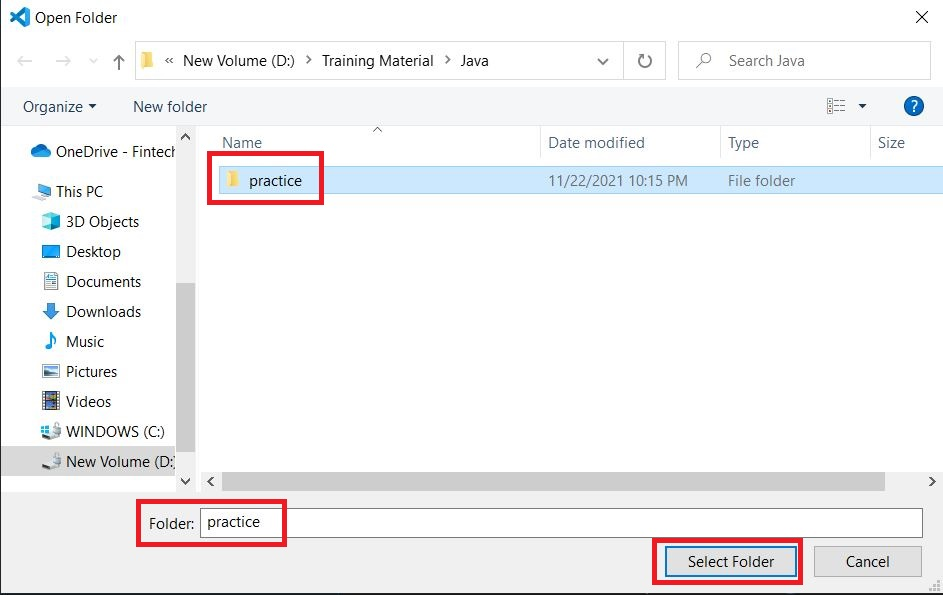
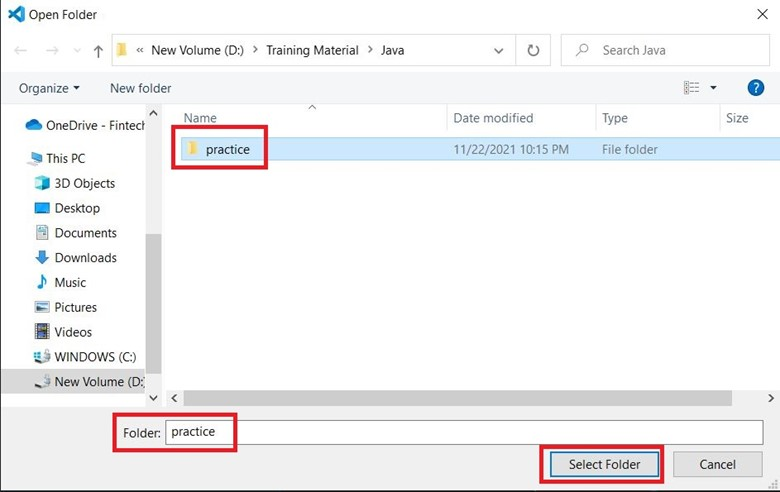
Δωρεαν Μαθηματα Java

diff --git a/java-unit2-java-maven-project-creation.html b/java-unit2-java-maven-project-creation.html
@@ -261,7 +261,7 @@
 							δίσκο. Στο δικό μου παράδειγμα έχω δημιουργήσει ένα folder με το όνομα 
 							practice. Μέσα σε αυτό το folder θα δημιουργήσουμε το πρώτο μας Java Project.</p>
 
-					<img src="java-unit2/java-unit2-1.jpg" alt="Δωρεάν Μαθήματα και Σεμινάρια JAVA" class="center">
+					<img src="java-unit2/java-unit2-1.png" alt="Δωρεάν Μαθήματα και Σεμινάρια JAVA" class="center">
 					<p></p>
 
 					<p>Τώρα ανοίγουμε το VS Code. Από το main menu επιλέγουμε <strong>File > Open Folder</strong> και 
@@ -273,20 +273,20 @@
 
 						<img src="java-unit2/java-unit2-3.png" alt="Δωρεάν Μαθήματα και Σεμινάρια JAVA" class="center">
 						<p></p>
-						<img src="java-unit2/java-unit2-4.JPG" alt="Δωρεάν Μαθήματα και Σεμινάρια JAVA" class="center">
+						<img src="java-unit2/java-unit2-4.png" alt="Δωρεάν Μαθήματα και Σεμινάρια JAVA" class="center">
 						<p></p>
 						<p>Τώρα που έχουμε επιλέξει το folder, μπορούμε μέσα σε αυτό να δημιουργήσουμε ένα Java Project. Πηγαίνουμε στο <strong>View > Command Palette</strong>.</p>
-						<img src="java-unit2/java-unit2-5.JPG" alt="Δωρεάν Μαθήματα και Σεμινάρια JAVA" class="center">
+						<img src="java-unit2/java-unit2-5.png" alt="Δωρεάν Μαθήματα και Σεμινάρια JAVA" class="center">
 						<p></p>
 <p>Στο πεδίο εύρεσης, γράφουμε <strong>java</strong> για να μας εμφανιστούν όλες οι 
 	επιλογές που μας προσφέρει το VS Code για την συγκεκριμένη γλώσσα προγραμματισμού. Επιλέξτε 
 	το <strong>Java: Create Java Project</strong>.</p>
 
-	<img src="java-unit2/java-unit2-6.JPG" alt="Δωρεάν Μαθήματα και Σεμινάρια JAVA" class="center">
+	<img src="java-unit2/java-unit2-6.png" alt="Δωρεάν Μαθήματα και Σεμινάρια JAVA" class="center">
 						<p></p>
 
 	<p>Από τις εμφανιζόμενες επιλογές, θα επιλέξετε <strong>Maven</strong>.</p>
-	<img src="java-unit2/java-unit2-7.JPG" alt="Δωρεάν Μαθήματα και Σεμινάρια JAVA" class="center">
+	<img src="java-unit2/java-unit2-7.png" alt="Δωρεάν Μαθήματα και Σεμινάρια JAVA" class="center">
 	<p></p>
 
 	<p>Το Maven, για να σας βοηθήσει με την γρήγορη δημιουργία ενός java 
@@ -294,12 +294,12 @@
 		με τις ελάχιστες απαιτήσεις που χρειάζεται ένα project για να εκτελεστεί σωστά. Από 
 		τις εμφανιζόμενες επιλογές, επιλέγετε το πρώτο template με το όνομα <strong>maven-archetype-quickstart</strong>.</p>
 
-		<img src="java-unit2/java-unit2-8.JPG" alt="Δωρεάν Μαθήματα και Σεμινάρια JAVA" class="center">
+		<img src="java-unit2/java-unit2-8.png" alt="Δωρεάν Μαθήματα και Σεμινάρια JAVA" class="center">
 		<p></p>
 
 		<p>Όταν επιλέξουμε το archetype θα εμφανιστεί ο αριθμός έκδοσης του συγκεκριμένου archetype. Επιλέξτε την πιο τελευταία έκδοση.</p>
 
-		<img src="java-unit2/java-unit2-9.JPG" alt="Δωρεάν Μαθήματα και Σεμινάρια JAVA" class="center">
+		<img src="java-unit2/java-unit2-9.png" alt="Δωρεάν Μαθήματα και Σεμινάρια JAVA" class="center">
 		<p></p>
 
 <p>Αμέσως μετά, το Maven θα μας προτείνει ένα default όνομα για 
@@ -308,7 +308,7 @@
 	καταλάβετε τι ακριβώς είναι ένα package και πως λειτουργεί μέσα σε ένα j
 	ava project θα δώσουμε καλύτερα ονόματα. Κατά την δημιουργία ενός Java Maven 
 	Project το package ονομάζεται <strong>groud id</strong>.Για τώρα το default όνομα μας εξυπηρετεί μια χαρά. Πατήστε ENTER και δεχτείτε αυτή την επιλογή.</p>
-	<img src="java-unit2/java-unit2-10.JPG" alt="Δωρεάν Μαθήματα και Σεμινάρια JAVA" class="center">
+	<img src="java-unit2/java-unit2-10.png" alt="Δωρεάν Μαθήματα και Σεμινάρια JAVA" class="center">
 	<p></p>
 
 	<p>Τώρα ήρθε η σειρά να διαλέξουμε ένα όνομα για το project 
@@ -317,7 +317,7 @@
 		δώσει το Maven για αυτή την διαδικασία είναι <strong>artifact id</strong>. Όταν το γράψετε 
 		πατήστε <strong>ENTER</strong>.</p>
 
-		<img src="java-unit2/java-unit2-11.JPG" alt="Δωρεάν Μαθήματα και Σεμινάρια JAVA" class="center">
+		<img src="java-unit2/java-unit2-11.png" alt="Δωρεάν Μαθήματα και Σεμινάρια JAVA" class="center">
 		<p></p>
 
 <p>Η default τοποθεσία του project μας θα είναι το folder το οποίο ανοίξαμε αρχικά 
@@ -326,7 +326,7 @@
 	τοποθεσία δημιουργίας του Java Maven Project. Απλά δεχτείτε την επιλογή 
 	και πατήστε το <strong>Select Destination Folder</strong>.</p>
 
-	<img src="java-unit2/java-unit2-12.JPG" alt="Δωρεάν Μαθήματα και Σεμινάρια JAVA" class="center">
+	<img src="java-unit2/java-unit2-12.png" alt="Δωρεάν Μαθήματα και Σεμινάρια JAVA" class="center">
 		<p></p>
 
 	<p>Σχεδόν τελειώσαμε. Τώρα στο Terminal του VS Code θα εμφανιστεί η διαδικασία 
@@ -341,22 +341,22 @@
 		έκδοση του project ή απλά να πατήσουμε ENTER και να συνεχίσουμε. Στο δικό μας 
 		παράδειγμα απλά πατάμε <strong>ENTER</strong> για να συνεχίσουμε.</p>
 
-		<img src="java-unit2/java-unit2-13.JPG" alt="Δωρεάν Μαθήματα και Σεμινάρια JAVA" class="center">
+		<img src="java-unit2/java-unit2-13.png" alt="Δωρεάν Μαθήματα και Σεμινάρια JAVA" class="center">
 		<p></p>
 
 	<p>Το τελευταίο βήμα είναι να γράψετε το <strong>Y</strong> με κεφαλαίο αγγλικό γράμμα 
 		για να δεχτείτε τις επιλογές που έχετε κάνει. Γράφουμε λοιπόν Y, πατάμε <strong>ENTER</strong> και 
 		το project μας τώρα θα δημιουργηθεί.</p>
 
-		<img src="java-unit2/java-unit2-14.JPG" alt="Δωρεάν Μαθήματα και Σεμινάρια JAVA" class="center">
+		<img src="java-unit2/java-unit2-14.png" alt="Δωρεάν Μαθήματα και Σεμινάρια JAVA" class="center">
 		<p></p>
 
-		<img src="java-unit2/java-unit2-15.JPG" alt="Δωρεάν Μαθήματα και Σεμινάρια JAVA" class="center">
+		<img src="java-unit2/java-unit2-15.png" alt="Δωρεάν Μαθήματα και Σεμινάρια JAVA" class="center">
 		<p></p>
 
 	<p>Το Java Maven Project δημιουργήθηκε. Και μάλιστα το VS Code το έχει αναγνωρίσει σαν Maven project γιατί αν κάνετε expand την επιλογή Maven θα δείτε το όνομα του project σας.</p>
 
-	<img src="java-unit2/java-unit2-16.JPG" alt="Δωρεάν Μαθήματα και Σεμινάρια JAVA" class="center">
+	<img src="java-unit2/java-unit2-16.png" alt="Δωρεάν Μαθήματα και Σεμινάρια JAVA" class="center">
 		<p></p>
 	<h3 class="content-h3">ΤΡΟΠΟΠΟΙΗΣΗ ΤΟΥ POM.XML ΑΡΧΕΙΟΥ</h3>
 
@@ -364,7 +364,7 @@
 	ορισμένες αλλαγές στο <strong>pom.xml</strong> αρχείο. Κάνοντας double-click επάνω 
 	του θα ανοίξει και μπορούμε τώρα να πραγματοποιήσουμε τις αλλαγές.</p>
 
-	<img src="java-unit2/java-unit2-17.JPG" alt="Δωρεάν Μαθήματα και Σεμινάρια JAVA" class="center">
+	<img src="java-unit2/java-unit2-17.png" alt="Δωρεάν Μαθήματα και Σεμινάρια JAVA" class="center">
 	<p></p>
 
 <p>Η πρώτη και κύρια αλλαγή είναι να αλλάξουμε το <strong>maven.compiler.source</strong> 
@@ -372,7 +372,7 @@
 	η έκδοση της Microsoft OpenJDK που έχουμε εγκαταστήσει. Βεβαιωθείτε ότι μετά 
 	από κάθε αλλαγή καλό θα ήταν να κάνετε save από το <strong>File > Save</strong>.</p>
 
-	<img src="java-unit2/java-unit2-18.JPG" alt="Δωρεάν Μαθήματα και Σεμινάρια JAVA" class="center">
+	<img src="java-unit2/java-unit2-18.png" alt="Δωρεάν Μαθήματα και Σεμινάρια JAVA" class="center">
 	<p></p>
 
 <p>Το <strong>pom.xml</strong> αρχείο είναι το μέρος στο οποίο δηλώνουμε 
@@ -386,10 +386,10 @@
 
 	<p>Ας πάρουμε για παράδειγμα το library του junit.</p>
 
-	<img src="java-unit2/java-unit2-19.JPG" alt="Δωρεάν Μαθήματα και Σεμινάρια JAVA" class="center">
+	<img src="java-unit2/java-unit2-19.png" alt="Δωρεάν Μαθήματα και Σεμινάρια JAVA" class="center">
 	<p></p>	
 
-	<img src="java-unit2/java-unit2-20.JPG" alt="Δωρεάν Μαθήματα και Σεμινάρια JAVA" class="center">
+	<img src="java-unit2/java-unit2-20.png" alt="Δωρεάν Μαθήματα και Σεμινάρια JAVA" class="center">
 	<p></p>	
 
 <p>Ακολουθώντας την ίδια λογική, η τελική μορφή του pom.xml είναι η εξής:</p>
@@ -400,20 +400,20 @@
 <p>Τώρα είμαστε έτοιμοι να κάνουμε compile το project μας. Το VS Code μας προσφέρει ένα πολύ καλό και visual τρόπο για να μπορέσουμε να προχωρήσουμε σε αυτή την πράξη. Αν και υπάρχουν οι εντολές του Maven που μπορούμε να τρέξουμε απευθείας στο terminal παράθυρο, το VS Code προσφέρει τις ίδιες ακριβώς εντολές με γραφικό τρόπο.</p>
 <p>Για να δούμε τις εντολές, κάνουμε δεξί κλικ επάνω στο employeemanagement project στη Maven κατηγορία. Από το εμφανιζόμενο μενού πρέπει να πρώτα να εκτελέσουμε την <strong>clean</strong> εντολή του Maven.</p>
 
-<img src="java-unit2/java-unit2-21.JPG" alt="Δωρεάν Μαθήματα και Σεμινάρια JAVA" class="center">
+<img src="java-unit2/java-unit2-21.png" alt="Δωρεάν Μαθήματα και Σεμινάρια JAVA" class="center">
 <p></p>	
 
-<img src="java-unit2/java-unit2-22.JPG" alt="Δωρεάν Μαθήματα και Σεμινάρια JAVA" class="center">
+<img src="java-unit2/java-unit2-22.png" alt="Δωρεάν Μαθήματα και Σεμινάρια JAVA" class="center">
 <p></p>	
 
 <p>Η δεύτερη εντολή που θα εκτελέσουμε είναι η <strong>install</strong>. Αυτή η εντολή 
 	είναι εκείνη που θα μας χτίσει το project και αν υπάρχουν λάθη θα μας τα δείξει 
 	το Maven στο παράθυρο του terminal.</p>
 
-	<img src="java-unit2/java-unit2-23.JPG" alt="Δωρεάν Μαθήματα και Σεμινάρια JAVA" class="center">
+	<img src="java-unit2/java-unit2-23.png" alt="Δωρεάν Μαθήματα και Σεμινάρια JAVA" class="center">
 	<p></p>
 
-	<img src="java-unit2/java-unit2-24.JPG" alt="Δωρεάν Μαθήματα και Σεμινάρια JAVA" class="center">
+	<img src="java-unit2/java-unit2-24.png" alt="Δωρεάν Μαθήματα και Σεμινάρια JAVA" class="center">
 	<p></p>
 
 <p>Τώρα μπορούμε να τρέξουμε το project μας. Ξανά, θα 
@@ -423,7 +423,7 @@
 	αναλύσουμε όλη την θεωρία γύρω από αυτό το αρχείο. Για τώρα απλά ανοίξτε 
 	το και στην έξτρα επιλογή που εμφανίζεται πάνω από την 
 	μέθοδο main πατήστε το <strong>Run main</strong>.</p>
-	<img src="java-unit2/java-unit2-25.JPG" alt="Δωρεάν Μαθήματα και Σεμινάρια JAVA" class="center">
+	<img src="java-unit2/java-unit2-25.png" alt="Δωρεάν Μαθήματα και Σεμινάρια JAVA" class="center">
 	<p></p>
 
 <p>Το αποτέλεσμα είναι να δείτε το μήνυμα Hello World στην κονσόλα. Με αυτή την διαδικασία, ολοκληρώσαμε την αναφορά μας στην δημιουργία ενός καινούργιου Java Maven project. Κρατήστε για τώρα το γεγονός ότι κάθε φορά που γράφετε καινούργιο κώδικα ή αλλάζετε κώδικα που ήδη υπάρχει στην Java κλάση σας θα πρέπει να εκτελείτε τις εντολές clean και install.</p>
